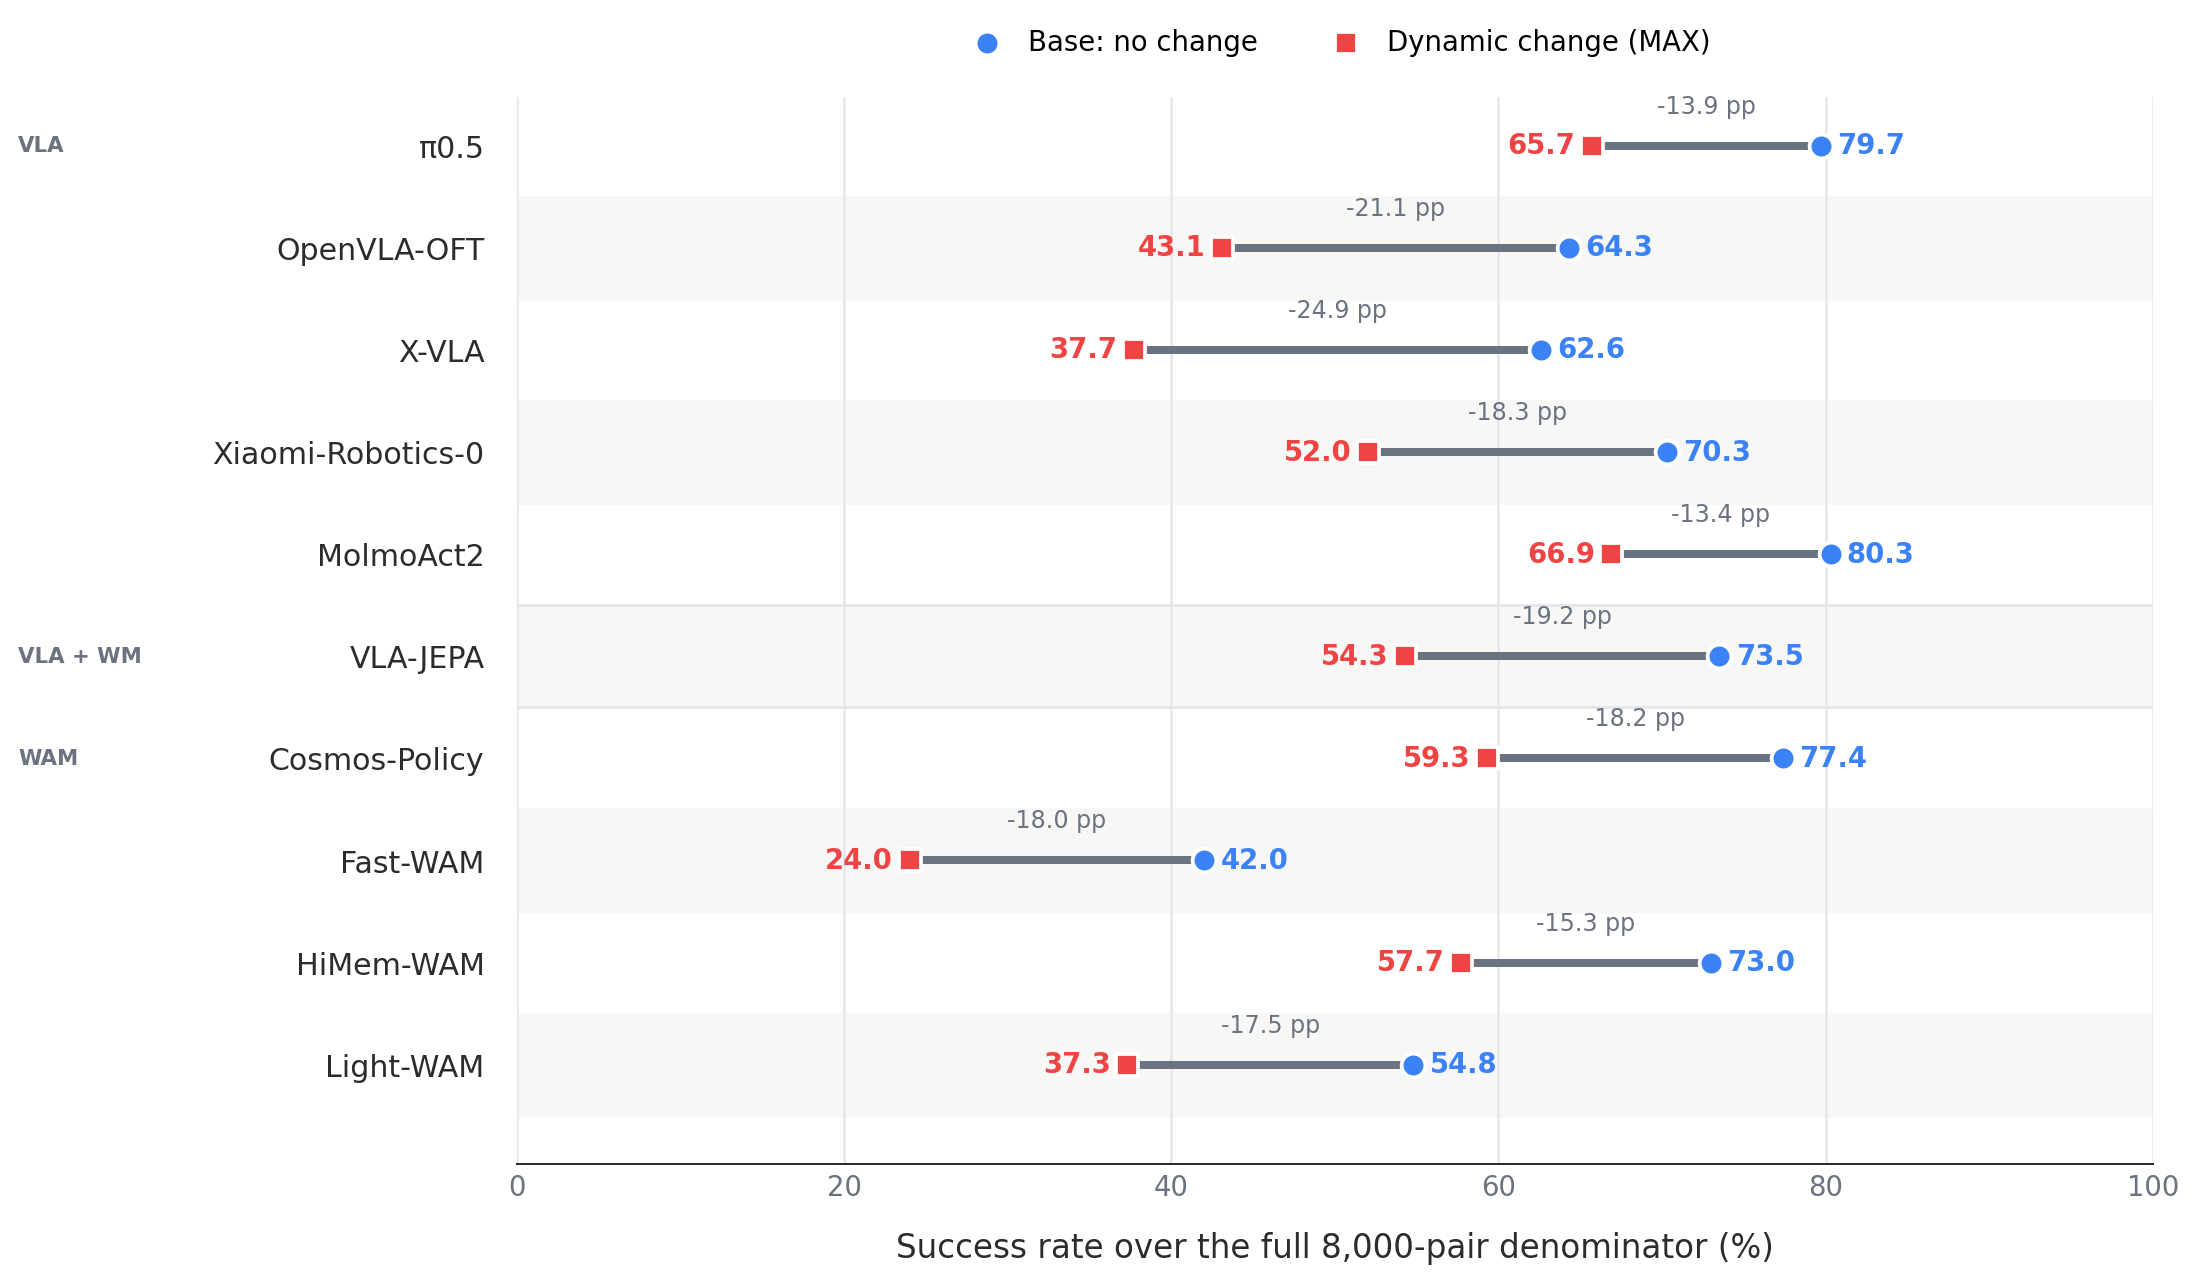
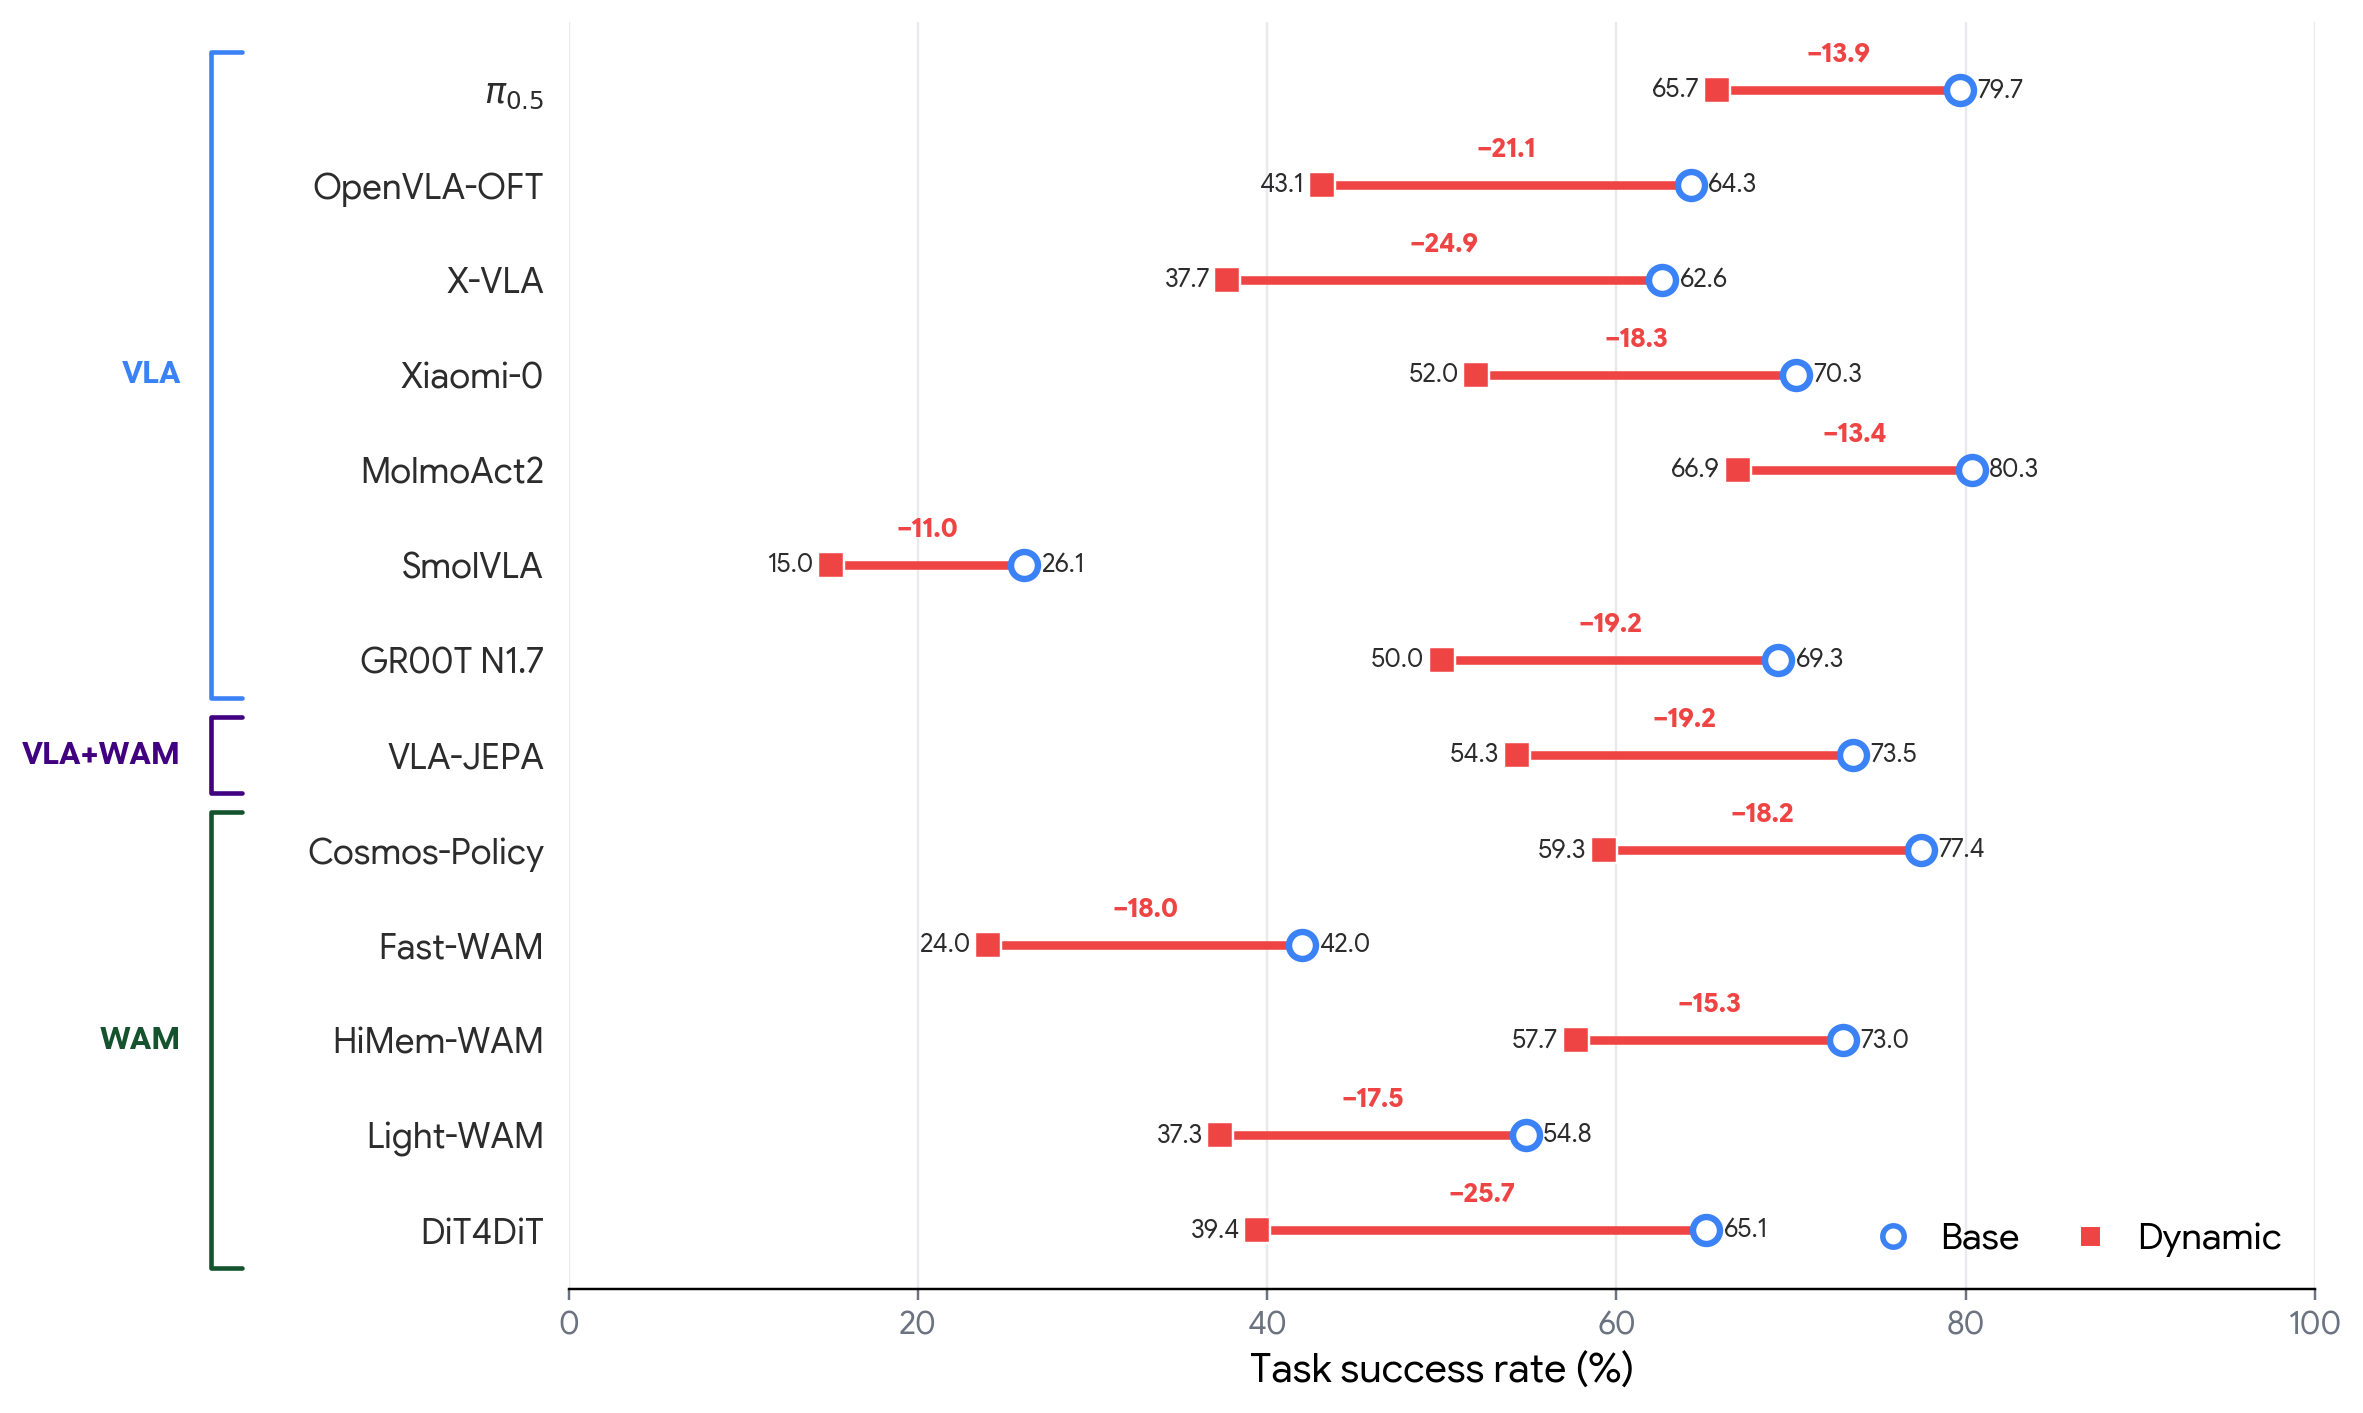
Document Lite evaluation and publish validation results

diff --git a/README.md b/README.md
@@ -8,7 +8,7 @@
 [![Dataset](https://img.shields.io/badge/Dataset-available-3B82F6?style=flat-square)](benchmark/max8000)
 [![Dynamic cases](https://img.shields.io/badge/Dynamic%20cases-8%2C000-14532D?style=flat-square)](#benchmark)
 [![Lite split](https://img.shields.io/badge/Track-Lite-2563EB?style=flat-square)](benchmark/lite)
-[![Models](https://img.shields.io/badge/Evaluated%20models-10-C2410C?style=flat-square)](#main-results)
+[![Models](https://img.shields.io/badge/Evaluated%20models-13-C2410C?style=flat-square)](#main-results)
 [![Website](https://img.shields.io/badge/Website-project%20page-14532D?style=flat-square)](https://yunbeizhang.github.io/LIBERO-MAX/)
 [![CI](https://img.shields.io/github/actions/workflow/status/yunbeizhang/LIBERO-MAX/ci.yml?branch=main&label=tests&style=flat-square)](https://github.com/yunbeizhang/LIBERO-MAX/actions/workflows/ci.yml)
 
@@ -32,6 +32,10 @@ prefix before the change.
 
 ## News
 
+- **2026-08-31:** Released **LIBERO-MAX Lite**, a fixed 400-pair subset that
+  uses 5% of the Max rollout budget, together with audited Max--Lite results
+  for nine checkpoints; the complete Max comparison now covers thirteen
+  checkpoints.
 - **2026-08-20:** Expanded the complete 8,000-pair evaluation to **ten**
   VLA/WAM checkpoints and released a model-agnostic dynamic GPU scheduler.
 - **2026-08-15:** Released the **LIBERO-MAX dataset** and complete 8,000-pair
@@ -120,18 +124,21 @@ event trigger remains an end-to-end failure.
 | VLA | OpenVLA-OFT | 64.3 | 43.1 | −21.1 |
 | VLA | X-VLA | 62.6 | 37.7 | −24.9 |
 | VLA | Xiaomi-Robotics-0 | 70.3 | 52.0 | −18.3 |
-| VLA | MolmoAct2 | **80.3** | **66.9** | **−13.4** |
+| VLA | MolmoAct2 | **80.3** | **66.9** | −13.4 |
+| VLA | SmolVLA | 26.1 | 15.0 | −11.0 |
+| VLA | GR00T N1.7 | 69.3 | 50.0 | −19.3 |
 | VLA + WM | VLA-JEPA | 73.5 | 54.3 | −19.2 |
 | WAM | Cosmos-Policy | 77.4 | 59.3 | −18.2 |
 | WAM | Fast-WAM | 42.0 | 24.0 | −18.0 |
 | WAM | HiMem-WAM | 73.0 | 57.7 | −15.3 |
 | WAM | Light-WAM | 54.8 | 37.3 | −17.5 |
+| WAM | DiT4DiT | 65.1 | 39.4 | −25.7 |
 
 <p align="center">
-  <img src="assets/figures/main_results.png" width="95%" alt="Base and Dynamic success rates across ten robot policies">
+  <img src="assets/figures/main_results.png" width="95%" alt="Base and Dynamic success rates across thirteen robot policies">
 </p>
 
-All ten policies lose **13.4 to 24.9 success-rate points** when the world
+All thirteen policies lose **11.0 to 25.7 success-rate points** when the world
 changes during execution. No family dominates across all events. Relocation,
 camera shift, and sensor corruption expose the largest shared weaknesses. The
 compact source data for the table and plots is available in
@@ -140,6 +147,36 @@ compact source data for the table and plots is available in
 <p align="center">
   <img src="assets/figures/change_type_breakdown.png" width="100%" alt="Success-rate loss by model and online change type">
 </p>
+
+### Lite validation
+
+Lite uses the same frozen case IDs and the same native checkpoint settings as
+Max. Only the evaluation set changes: each Lite checkpoint scores 400 matched
+pairs, or 800 rollouts. Across the nine checkpoints with audited Lite records,
+Lite preserves the Dynamic-success ordering observed on Max. The largest
+absolute Max--Lite deviation over Base success, Dynamic success, and the paired
+gap is 4.1 percentage points.
+
+| Model | Max Base | Lite Base | Max Dynamic | Lite Dynamic | Max gap | Lite gap |
+| --- | ---: | ---: | ---: | ---: | ---: | ---: |
+| π0.5 | 79.7 | 79.5 | 65.7 | 64.8 | −13.9 | −14.8 |
+| OpenVLA-OFT | 64.3 | 65.3 | 43.2 | 47.3 | −21.1 | −18.0 |
+| X-VLA | 62.6 | 61.3 | 37.7 | 39.3 | −24.9 | −22.0 |
+| MolmoAct2 | 80.3 | 81.0 | 66.9 | 68.0 | −13.4 | −13.0 |
+| GR00T N1.7 | 69.3 | 68.5 | 50.0 | 51.5 | −19.3 | −17.0 |
+| VLA-JEPA | 73.5 | 73.3 | 54.3 | 53.0 | −19.2 | −20.3 |
+| Cosmos-Policy | 77.4 | 76.3 | 59.3 | 59.8 | −18.2 | −16.5 |
+| Fast-WAM | 42.0 | 41.0 | 24.0 | 22.5 | −18.0 | −18.5 |
+| Light-WAM | 54.8 | 56.5 | 37.3 | 39.3 | −17.5 | −17.3 |
+
+<p align="center">
+  <img src="assets/figures/max_lite_validation.png" width="95%" alt="Max and Lite Base and Dynamic success rates across nine audited checkpoints">
+</p>
+
+The exact values are available in
+[`assets/figures/max_lite_validation.csv`](assets/figures/max_lite_validation.csv).
+Max remains the primary reporting track; Lite is intended for integration,
+debugging, ablation, and early comparison.
 
 The repository focuses on the benchmark contract rather than redistributing
 model implementations or weights. These reference adapters demonstrate the
@@ -190,7 +227,25 @@ Model weights and upstream repositories are not redistributed here. A model
 adapter consumes one manifest shard, writes terminal `DONE` or `FAILED`
 markers, and supports `--resume`. The generic scheduler uses every GPU visible
 through `CUDA_VISIBLE_DEVICES` by default and dynamically assigns suite shards
-as workers finish:
+as workers finish.
+
+Start with Lite when integrating a checkpoint. The following example evaluates
+X-VLA on all 400 Lite pairs:
+
+```bash
+python scripts/run_dynamic_benchmark.py \
+  benchmark/lite/libero_max_lite.json \
+  --runner scripts/run_xvla_persistent_shard.py \
+  --output-root artifacts/xvla-lite \
+  -- \
+  --lerobot-root /path/to/lerobot \
+  --checkpoint /path/to/xvla-libero-checkpoint \
+  --query-interval 30
+```
+
+Keep the model checkpoint, action horizon, query interval, and all other
+serving settings identical when moving from Lite to Max. To run the complete
+track, change the manifest and output directory:
 
 ```bash
 python scripts/run_dynamic_benchmark.py \
@@ -203,12 +258,15 @@ python scripts/run_dynamic_benchmark.py \
   --query-interval 30
 ```
 
-Use `--gpus 0,2` to override automatic discovery. A new model can integrate by
-implementing the same shard CLI; the scheduler does not import or special-case
-the policy. See the [`evaluation guide`](docs/RUNTIME_INTEGRATION.md) for the
-adapter contract, simulator requirements, dependency isolation, paired replay
-checks, and aggregation. Generated rollouts belong under `artifacts/`, which
-is ignored by Git.
+Use `--gpus 0,2` to override automatic discovery. A valid Lite evaluation must
+finish all 400 case IDs in both the Base and Dynamic arms; failed or missing
+cases remain in the full denominator rather than being dropped. A new model can
+integrate by implementing the same shard CLI; the scheduler does not import or
+special-case the policy. See the [`Lite guide`](benchmark/lite/README.md) and
+the [`evaluation guide`](docs/RUNTIME_INTEGRATION.md) for the adapter contract,
+simulator requirements, dependency isolation, paired replay checks, and
+aggregation. Generated rollouts belong under `artifacts/`, which is ignored by
+Git.
 
 ## Repository structure
 

diff --git a/benchmark/lite/README.md b/benchmark/lite/README.md
@@ -33,5 +33,35 @@ Rebuild it deterministically from Max:
 python scripts/build_lite_split.py
 ```
 
+## Evaluate a checkpoint on Lite
+
+Use the same checkpoint and native serving configuration that would be used on
+Max. Lite changes case membership only; it does not change the action horizon,
+query interval, decoding steps, or model seed. From the repository root, the
+generic scheduler can run any compatible shard adapter on every visible GPU.
+For example:
+
+```bash
+python scripts/run_dynamic_benchmark.py \
+  benchmark/lite/libero_max_lite.json \
+  --runner scripts/run_xvla_persistent_shard.py \
+  --output-root artifacts/xvla-lite \
+  -- \
+  --lerobot-root /path/to/lerobot \
+  --checkpoint /path/to/xvla-libero-checkpoint \
+  --query-interval 30
+```
+
+The scheduler discovers all GPUs visible through `CUDA_VISIBLE_DEVICES`,
+assigns suite shards dynamically, and retries incomplete shards with `--resume`.
+Pass `--gpus 0,2` to use an explicit subset. A complete Lite run contains 400
+terminal pair records and scores 800 rollouts: one Base and one Dynamic rollout
+for every released case ID. Failed or missing cases stay in the 400-pair
+denominator.
+
+After validating an integration on Lite, evaluate Max by replacing the manifest
+with `benchmark/max8000/libero_max_8000.json` and using a separate output root.
+Do not change the checkpoint or serving configuration between tracks.
+
 `case_index.csv` makes the released membership easy to audit.
 `selection_summary.json` records the seed, quotas, and source digest.
